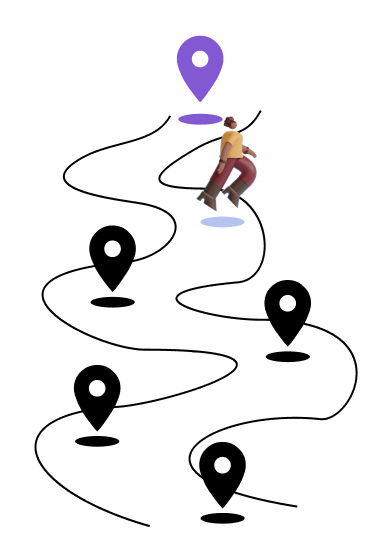
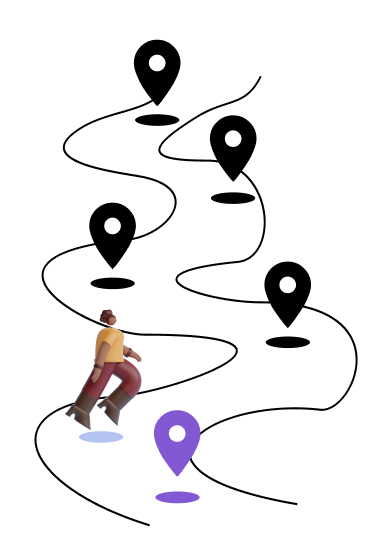
Nav bar color

Changed region(s): [[0.0889, 0.062, 0.9784, 0.9617], [0.2075, 0.8996, 0.4151, 0.9617], [0.6819, 0.1241, 0.7116, 0.1551]]

diff --git a/frontend/screens/HomeScreen.js b/frontend/screens/HomeScreen.js
@@ -22,11 +22,7 @@ export default function HomeScreen({navigation, route}) {
   let none = route.params.none;
 
   return (
-    // <View style={styles.container}>
-    //   <Text>Home Screen</Text>
-    //   <StatusBar style="auto" />
-    // </View>
-    <Tab.Navigator>
+    <Tab.Navigator barStyle={{ backgroundColor: '#B1AAE9' }} > 
         <Tab.Screen name="Home" component={home}
          options={{title: 'Home', 
           tabBarIcon: ({color}) => ( 
@@ -50,7 +46,7 @@ export default function HomeScreen({navigation, route}) {
           size = {26} color = {color} />
         ) 
         }} />
-        <Tab.Screen name="Profile" component={profile}
+        <Tab.Screen name="Profile" component={profile} 
         options={{title: 'Profile', 
           tabBarIcon: ({color}) => ( 
           <MaterialCommunityIcons name = "account-circle-outline"
@@ -61,12 +57,3 @@ export default function HomeScreen({navigation, route}) {
 
   );
 }
-
-const styles = StyleSheet.create({
-  container: {
-    flex: 1,
-    backgroundColor: '#968CE1',
-    alignItems: 'center',
-    justifyContent: 'center',
-  },
-});

diff --git a/frontend/bottom_tab/home.js b/frontend/bottom_tab/home.js
@@ -7,10 +7,15 @@ export default function Home({navigation, route}) {
   return (
     <View style={styles.container}>
     <Image
-        source={require('../assets/roadmap.png')}
-
+        source={require('../assets/lock-homePage.png')}
     />
-      <Text>Home Tab</Text>
+    <Image
+        source={require('../assets/string-homePage.png')}
+        style={{opacity:0.7}}
+    /> 
+    <Image
+        source={require('../assets/roadmap.png')}        
+    />
       <StatusBar style="auto" />
     </View>
   );

diff --git a/frontend/App.js b/frontend/App.js
@@ -37,17 +37,6 @@ const LogInScreen = () => {
   </LogIn.Navigator>
 }
 
-function TabNavigator() {
-  return (
-    <Tab.Navigator>
-      <Tab.Screen name="Home" component={home} />
-      <Tab.Screen name="Events" component={events} />
-      <Tab.Screen name="Rewards" component={rewards} />
-      <Tab.Screen name="Profile" component={profile} />
-    </Tab.Navigator>
-  )
-}
-
 function StackNavigator() {
   return (
     <Stack.Navigator>
